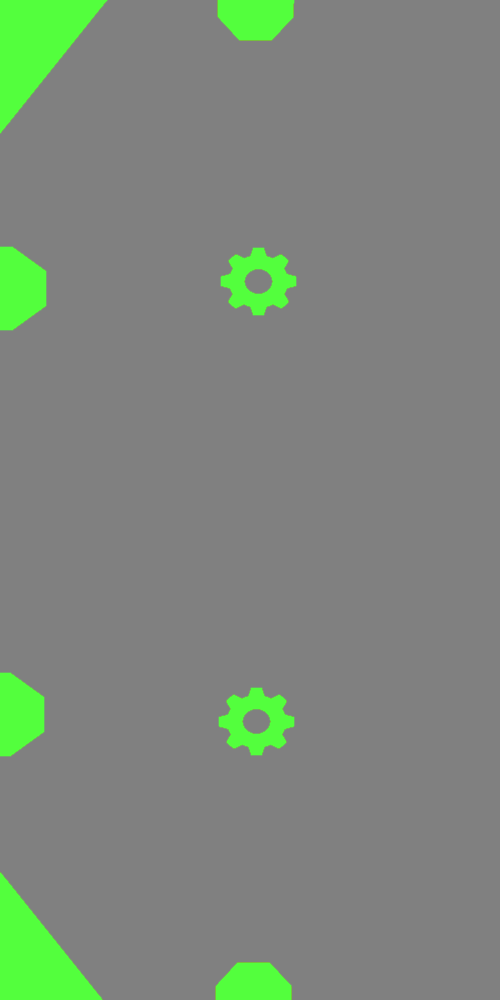
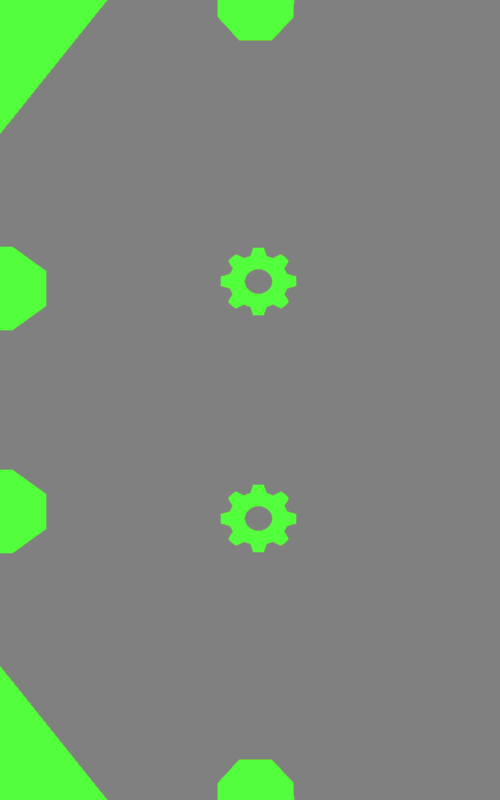
Updated Field Image

diff --git a/FieldCommander.py b/FieldCommander.py
@@ -21,7 +21,7 @@ path_drawer = PathDrawer(update_interval=0.1)
 root = tk.Tk()
 root.title("FieldCommander")
 canvas_width = 500
-canvas_height = 1000
+canvas_height = 800
 canvas = tk.Canvas(root, width=canvas_width, height=canvas_height)
 canvas.pack()
 
